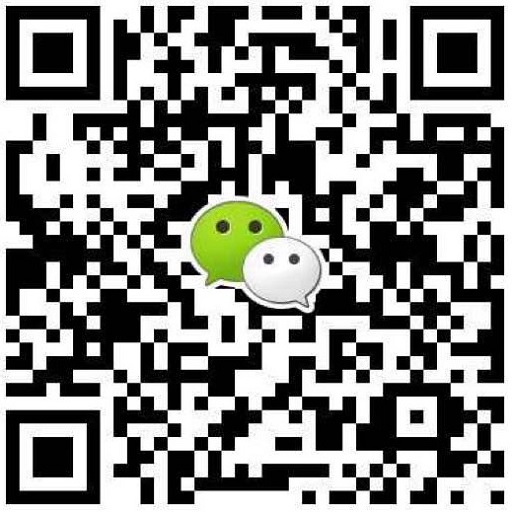
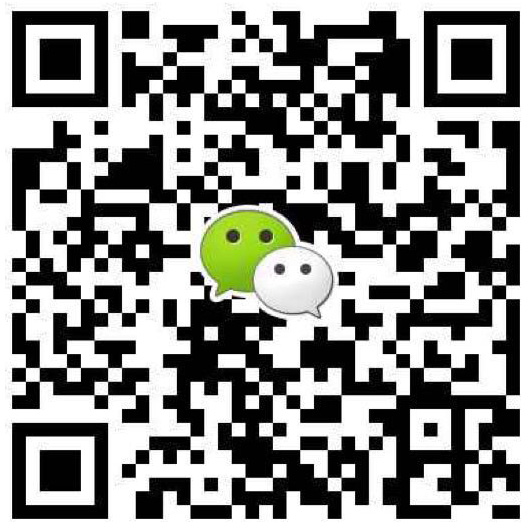
#440 new qr code

diff --git a/experiences/templates/experiences/expoz_booking_box.html b/experiences/templates/experiences/expoz_booking_box.html
@@ -9,8 +9,20 @@
     {% for field in form.hidden_fields %}
         {{ field }}
     {% endfor %}
-    <div>
+    <div style="border-bottom: 1px solid #ccc;">
+      <p>
+        {% trans "Date" %}
+      </p>
       {{form.date}}
     </div>
+    <a role="button" data-toggle="collapse" href="#option-{{forloop.counter}}">{{ option }}</a>
+    <div class="collapse" id="option-{{forloop.counter}}">
+
+    </div>
+    {% if user.is_authenticated %}
+        <input style="display:inline-block; width: 60px;" id="id_submit_request" type="submit" class="btn-block btn btn-xs btn-primary" value="{% trans "Request" %}" disabled='disabled'/>
+    {% else %}
+        <input style="display:inline-block; width: 60px;" type="button" class="btn-block btn btn-xs btn-primary" value="{% trans "Request" %}" onclick="location.href = '{{GEO_POSTFIX}}accounts/login/?next={{GEO_POSTFIX}}experience/{{experience.id}}';"/>
+    {% endif %}
   </form>
 </div>

diff --git a/experiences/templates/experiences/experience_detail.html b/experiences/templates/experiences/experience_detail.html
@@ -211,7 +211,7 @@
                 <img src="{% static 'experiences/img/itinerary-57.svg' %}" width="35" height="35">
                 <h3>{% trans 'Itineraries' %}</h3>
               </div>
-              <div class="listing-img" style="background-image:linear-gradient(rgba(0, 0, 0, 0.3),rgba(0, 0, 0, 0.3)),url({{ MEDIA_URL }}city/Brisbane.jpg">
+              <div class="listing-img" style="background-image:url({{ MEDIA_URL }}city/Brisbane.jpg">
                 <div class="listing-img-text">
                   <h1>{% trans "10 Day Trip" %}</h1>
                   <h2>{% trans "Melbourne + Sydney + Gold Coast" %}</h2>
